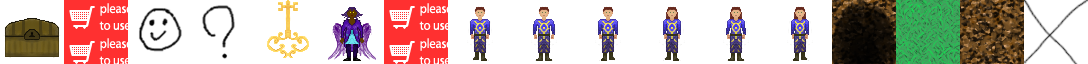
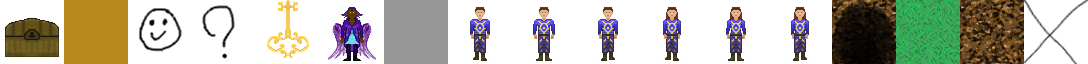
fixed sprite names and updated transparency #6

Changed region(s): [[0.3438, 0.0, 0.4375, 1.0], [0.0312, 0.0, 0.125, 1.0]]

diff --git a/src/main/java/edu/missouriwestern/csmp/gg/mwsu/entities/SpellcraftKey.java b/src/main/java/edu/missouriwestern/csmp/gg/mwsu/entities/SpellcraftKey.java
@@ -17,6 +17,6 @@ public class SpellcraftKey extends Entity {
 
     @Override
     public String getType() {
-        return "SpellcraftKey";
+        return "key";
     }
 }
